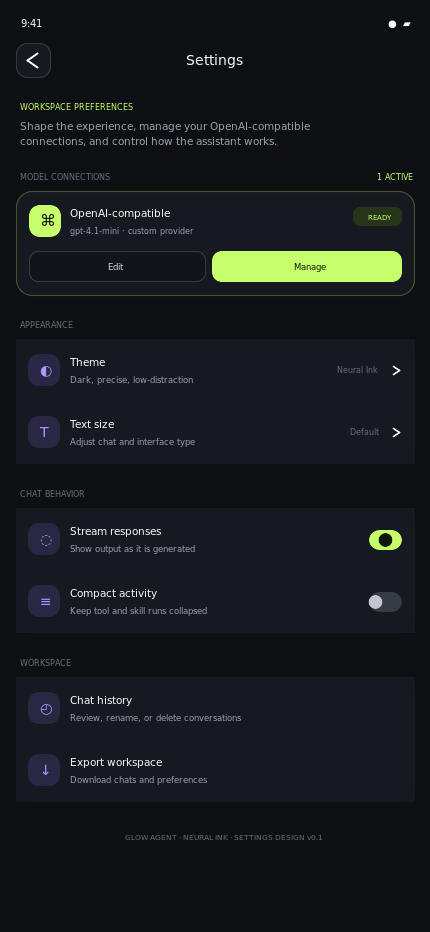
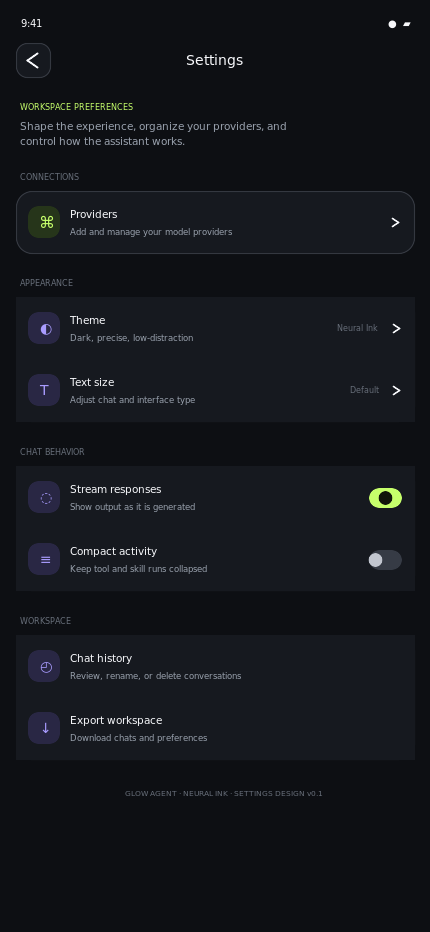
design: separate provider settings section

diff --git a/settings-page.html b/settings-page.html
@@ -37,8 +37,8 @@
     html { min-width: 320px; background: var(--canvas); }
     body { min-width: 320px; min-height: 100dvh; margin: 0; background: radial-gradient(circle at 85% 0%, rgba(169,156,255,.14), transparent 29rem), var(--canvas); color: var(--text); font-family: var(--font); -webkit-font-smoothing: antialiased; text-rendering: optimizeLegibility; }
     button, a { font: inherit; } button { cursor: pointer; } button:focus-visible, a:focus-visible { outline: 3px solid var(--accent); outline-offset: 3px; }
-    .mono, .status, .section-label, .item-meta, .item-value, .badge, .build, .toast { font-family: var(--mono); }
-    .phone { width: min(100%,470px); min-height:100dvh; margin:0 auto; padding-bottom:calc(30px + env(safe-area-inset-bottom)); background:radial-gradient(circle at 100% -2%,rgba(198,255,107,.07),transparent 25rem),var(--bg); box-shadow:0 0 0 1px rgba(255,255,255,.035),var(--shadow); }
+    .mono, .status, .section-label, .item-meta, .item-value, .build, .toast { font-family: var(--mono); }
+    .phone { position:relative; width: min(100%,470px); min-height:100dvh; margin:0 auto; padding-bottom:calc(30px + env(safe-area-inset-bottom)); background:radial-gradient(circle at 100% -2%,rgba(198,255,107,.07),transparent 25rem),var(--bg); box-shadow:0 0 0 1px rgba(255,255,255,.035),var(--shadow); }
 
     .status { display:flex; align-items:center; justify-content:space-between; height:calc(29px + env(safe-area-inset-top)); padding:env(safe-area-inset-top) 21px 0; color:var(--text); font-size:10px; font-weight:500; }
     .status-signals { display:flex; align-items:center; gap:6px; }.signal { display:inline-flex; align-items:end; gap:1px; height:10px; }.signal i { display:block; width:2px; border-radius:2px; background:currentColor; }.signal i:nth-child(1){height:3px}.signal i:nth-child(2){height:5px}.signal i:nth-child(3){height:7px}.signal i:nth-child(4){height:9px}.wifi { width:12px;height:9px;border:1.5px solid currentColor;border-bottom:0;border-radius:12px 12px 0 0;opacity:.94}.battery{width:19px;height:9px;padding:1px;border:1.2px solid currentColor;border-radius:3px}.battery::before{content:"";display:block;width:70%;height:100%;border-radius:1px;background:currentColor}
@@ -49,7 +49,12 @@
     .settings { display:grid; gap:22px; padding:0 16px; }.settings-section { min-width:0; }.section-label { display:flex; align-items:center; justify-content:space-between; margin:0 4px 8px; color:var(--quiet); font-size:8px; font-weight:500; letter-spacing:.08em; text-transform:uppercase; }.section-label .count { color:var(--accent); }
     .group { overflow:hidden; border:1px solid var(--line); border-radius:16px; background:var(--surface); }.setting-row { display:grid; grid-template-columns:31px minmax(0,1fr) auto; align-items:center; gap:10px; width:100%; min-height:62px; padding:10px 12px; border:0; border-bottom:1px solid var(--line); background:transparent; color:var(--text); text-align:left; text-decoration:none; }.setting-row:last-child { border-bottom:0; }.setting-row:hover { background:var(--surface-raised); }.row-icon { display:grid; width:31px; height:31px; place-items:center; border-radius:10px; background:var(--violet-wash); color:var(--violet); }.row-icon.accent { background:var(--accent-wash); color:var(--accent); }.row-icon.blue { background:rgba(129,217,255,.12); color:var(--blue); }.row-icon svg { width:15px; height:15px; fill:none; stroke:currentColor; stroke-linecap:round; stroke-linejoin:round; stroke-width:1.8; }.row-copy { min-width:0; }.row-title, .row-description { display:block; overflow:hidden; text-overflow:ellipsis; white-space:nowrap; }.row-title { color:var(--text); font-size:10.5px; font-weight:750; letter-spacing:-.018em; }.row-description { margin-top:3px; color:var(--muted); font-size:8.5px; line-height:1.35; }.row-tail { display:flex; align-items:center; gap:8px; min-width:0; }.item-value { max-width:90px; overflow:hidden; color:var(--quiet); font-size:8px; text-align:right; text-overflow:ellipsis; white-space:nowrap; }.chevron { color:var(--quiet); }.chevron svg { width:14px; height:14px; fill:none; stroke:currentColor; stroke-linecap:round;stroke-linejoin:round;stroke-width:1.8; }
 
-    .connection-card { padding:13px; border:1px solid rgba(198,255,107,.18); border-radius:16px; background:linear-gradient(135deg,rgba(198,255,107,.09),transparent 62%),var(--surface); }.connection-top { display:flex; align-items:center; justify-content:space-between; gap:12px; }.connection-left { display:flex; align-items:center; min-width:0; gap:9px; }.connection-icon { display:grid; width:31px; height:31px; place-items:center; flex:0 0 auto; border-radius:10px; background:var(--accent); color:var(--accent-ink); }.connection-icon svg { width:16px;height:16px;fill:none;stroke:currentColor;stroke-linecap:round;stroke-linejoin:round;stroke-width:2; }.connection-title { display:block; color:var(--text); font-size:10.5px; font-weight:800; }.connection-meta { display:block; overflow:hidden; max-width:240px; margin-top:3px; color:var(--muted); font-family:var(--mono); font-size:8px; text-overflow:ellipsis; white-space:nowrap; }.badge { flex:0 0 auto; padding:5px 6px; border-radius:6px; background:var(--accent-wash); color:var(--accent); font-size:7px; font-weight:500; letter-spacing:.045em; }.connection-actions { display:flex; gap:7px; margin-top:12px; }.connection-action { flex:1; height:30px; border:1px solid var(--line); border-radius:9px; background:var(--surface-soft); color:var(--text-soft); font-size:8.5px; font-weight:750; }.connection-action.primary { border-color:transparent; background:var(--accent); color:var(--accent-ink); }
+
+    /* Providers is a focused sub-section rather than exposing connection detail on Settings. */
+    .providers-view { position:fixed; top:0; bottom:0; left:50%; z-index:10; display:flex; width:min(100%,470px); flex-direction:column; padding-bottom:calc(24px + env(safe-area-inset-bottom)); transform:translate(110%,0); overflow:auto; background:radial-gradient(circle at 100% -2%,rgba(198,255,107,.07),transparent 25rem),var(--bg); opacity:0; visibility:hidden; transition:transform .28s cubic-bezier(.2,.8,.2,1),opacity .2s ease,visibility .2s ease; }
+    .phone.providers-open .providers-view { transform:translate(-50%,0); opacity:1; visibility:visible; }
+    .providers-topbar { display:grid; grid-template-columns:34px minmax(0,1fr) 34px; align-items:center; gap:9px; padding:calc(42px + env(safe-area-inset-top)) 16px 14px; }.providers-topbar h2 { margin:0; font-size:14px; font-weight:800; letter-spacing:-.035em; text-align:center; }.providers-back, .providers-spacer { display:grid; width:34px; height:34px; place-items:center; border:1px solid var(--line); border-radius:11px; background:var(--surface); color:var(--text); }.providers-back svg { width:16px; height:16px; fill:none; stroke:currentColor; stroke-linecap:round; stroke-linejoin:round; stroke-width:1.9; }.providers-spacer { visibility:hidden; }
+    .providers-content { padding:4px 16px; }.providers-content > p { margin:0 4px 18px; color:var(--muted); font-size:11px; line-height:1.5; }.providers-empty { display:grid; min-height:340px; place-content:center; padding:26px; border:1px dashed rgba(255,255,255,.16); border-radius:20px; background:var(--surface-soft); text-align:center; }.providers-empty-icon { display:grid; width:43px; height:43px; place-items:center; margin:0 auto; border-radius:14px; background:var(--accent-wash); color:var(--accent); }.providers-empty-icon svg { width:21px; height:21px; fill:none; stroke:currentColor; stroke-linecap:round; stroke-linejoin:round; stroke-width:1.8; }.providers-empty h3 { margin:14px 0 6px; font-size:15px; letter-spacing:-.04em; }.providers-empty p { max-width:240px; margin:0; color:var(--muted); font-size:10px; line-height:1.55; }.add-provider { display:flex; align-items:center; justify-content:center; gap:7px; width:100%; height:39px; margin-top:15px; border:0; border-radius:11px; background:var(--accent); color:var(--accent-ink); font-size:10px; font-weight:850; }.add-provider svg { width:14px; height:14px; fill:none; stroke:currentColor; stroke-linecap:round; stroke-width:2.1; }
 
     .toggle { position:relative; width:32px; height:19px; padding:0; border:0; border-radius:99px; background:#363b45; transition:background .18s ease; }.toggle i { position:absolute; top:3px; left:3px; width:13px; height:13px; border-radius:50%; background:#c2c6cf; box-shadow:0 1px 3px rgba(0,0,0,.32); transition:transform .18s ease,background .18s ease; }.toggle[aria-pressed="true"] { background:var(--accent); }.toggle[aria-pressed="true"] i { transform:translateX(13px); background:var(--accent-ink); }
     .danger .row-icon { background:rgba(255,135,151,.12); color:var(--danger); }.danger .row-title { color:#ffd9df; }.danger .item-value { color:var(--danger); }
@@ -58,19 +63,18 @@
   </style>
 </head>
 <body>
-  <main class="phone" aria-label="Glow Agent settings page design">
+  <main class="phone" id="phone" aria-label="Glow Agent settings page design">
     <div class="status" aria-hidden="true"><span>9:41</span><span class="status-signals"><span class="signal"><i></i><i></i><i></i><i></i></span><span class="wifi"></span><span class="battery"></span></span></div>
     <header class="topbar"><a class="back" href="chat-page.html" aria-label="Back to chat"><svg viewBox="0 0 24 24" aria-hidden="true"><path d="m15 18-6-6 6-6"/></svg></a><h1>Settings</h1><span class="top-spacer" aria-hidden="true"></span></header>
 
-    <section class="intro"><p class="eyebrow">Workspace preferences</p><p>Shape the experience, manage your <strong>OpenAI-compatible connections</strong>, and control how the assistant works.</p></section>
+    <section class="intro"><p class="eyebrow">Workspace preferences</p><p>Shape the experience, organize your <strong>providers</strong>, and control how the assistant works.</p></section>
 
     <div class="settings">
-      <section class="settings-section" aria-labelledby="connections-title">
-        <div class="section-label"><span id="connections-title">Model connections</span><span class="count">1 active</span></div>
-        <article class="connection-card">
-          <div class="connection-top"><div class="connection-left"><span class="connection-icon" aria-hidden="true"><svg viewBox="0 0 24 24"><path d="M8 7H5a2 2 0 0 0-2 2v3m18 0V9a2 2 0 0 0-2-2h-3M8 17H5a2 2 0 0 1-2-2v-3m18 0v3a2 2 0 0 1-2 2h-3"/><path d="M8 12h8M12 8v8"/></svg></span><span><span class="connection-title">OpenAI-compatible</span><span class="connection-meta">gpt-4.1-mini · custom provider</span></span></div><span class="badge">READY</span></div>
-          <div class="connection-actions"><button class="connection-action" type="button" data-action="Edit connection">Edit</button><button class="connection-action primary" type="button" data-action="Manage connections">Manage</button></div>
-        </article>
+      <section class="settings-section" aria-labelledby="providers-title">
+        <div class="section-label"><span id="providers-title">Connections</span></div>
+        <div class="group">
+          <button class="setting-row" id="providersButton" type="button" aria-controls="providersView" aria-expanded="false"><span class="row-icon accent" aria-hidden="true"><svg viewBox="0 0 24 24"><path d="M8 7H5a2 2 0 0 0-2 2v3m18 0V9a2 2 0 0 0-2-2h-3M8 17H5a2 2 0 0 1-2-2v-3m18 0v3a2 2 0 0 1-2 2h-3"/><path d="M8 12h8M12 8v8"/></svg></span><span class="row-copy"><span class="row-title">Providers</span><span class="row-description">Add and manage your model providers</span></span><span class="row-tail"><span class="chevron" aria-hidden="true"><svg viewBox="0 0 24 24"><path d="m9 18 6-6-6-6"/></svg></span></span></button>
+        </div>
       </section>
 
       <section class="settings-section" aria-labelledby="appearance-title">
@@ -102,13 +106,35 @@
         <div class="group"><button class="setting-row" type="button" data-action="Reset workspace"><span class="row-icon" aria-hidden="true"><svg viewBox="0 0 24 24"><path d="M3 6h18M8 6V4h8v2m-9 0 1 15h8l1-15M10 10v7m4-7v7"/></svg></span><span class="row-copy"><span class="row-title">Reset workspace</span><span class="row-description">Remove local chats and preferences</span></span><span class="row-tail"><span class="item-value">Reset</span><span class="chevron" aria-hidden="true"><svg viewBox="0 0 24 24"><path d="m9 18 6-6-6-6"/></svg></span></span></button></div>
       </section>
     </div>
+
+    <section class="providers-view" id="providersView" aria-label="Providers" aria-hidden="true">
+      <header class="providers-topbar"><button class="providers-back" id="providersBack" type="button" aria-label="Back to settings"><svg viewBox="0 0 24 24" aria-hidden="true"><path d="m15 18-6-6 6-6"/></svg></button><h2>Providers</h2><span class="providers-spacer" aria-hidden="true"></span></header>
+      <div class="providers-content">
+        <p>Set up the model providers your workspace can use. Provider details stay organized here instead of cluttering Settings.</p>
+        <section class="providers-empty" aria-label="No providers configured">
+          <span class="providers-empty-icon" aria-hidden="true"><svg viewBox="0 0 24 24"><path d="M8 7H5a2 2 0 0 0-2 2v3m18 0V9a2 2 0 0 0-2-2h-3M8 17H5a2 2 0 0 1-2-2v-3m18 0v3a2 2 0 0 1-2 2h-3"/><path d="M8 12h8M12 8v8"/></svg></span>
+          <h3>No providers yet</h3>
+          <p>Add your first provider when you are ready to connect a model.</p>
+          <button class="add-provider" type="button" data-action="Add provider"><svg viewBox="0 0 24 24" aria-hidden="true"><path d="M12 5v14M5 12h14"/></svg>Add provider</button>
+        </section>
+      </div>
+    </section>
+
     <p class="build">GLOW AGENT · NEURAL INK · SETTINGS DESIGN v0.1</p>
     <div class="toast" id="toast" role="status" aria-live="polite"></div>
   </main>
   <script>
+    const phone = document.getElementById('phone');
     const toast = document.getElementById('toast');
+    const providersButton = document.getElementById('providersButton');
+    const providersView = document.getElementById('providersView');
+    const providersBack = document.getElementById('providersBack');
     let toastTimer;
     function showToast(message) { toast.textContent = message; toast.classList.add('show'); clearTimeout(toastTimer); toastTimer = setTimeout(() => toast.classList.remove('show'), 2200); }
+    function setProviders(open) { phone.classList.toggle('providers-open', open); providersView.setAttribute('aria-hidden', String(!open)); providersButton.setAttribute('aria-expanded', String(open)); if (open) providersBack.focus(); else providersButton.focus(); }
+    providersButton.addEventListener('click', () => setProviders(true));
+    providersBack.addEventListener('click', () => setProviders(false));
+    document.addEventListener('keydown', (event) => { if (event.key === 'Escape' && phone.classList.contains('providers-open')) setProviders(false); });
     document.querySelectorAll('.toggle').forEach((toggle) => toggle.addEventListener('click', () => { const enabled = toggle.getAttribute('aria-pressed') === 'true'; toggle.setAttribute('aria-pressed', String(!enabled)); }));
     document.querySelectorAll('[data-action]').forEach((control) => control.addEventListener('click', () => showToast(`${control.dataset.action} opens in the implementation phase`)));
   </script>

diff --git a/README.md b/README.md
@@ -5,7 +5,7 @@ Planning for a mobile-friendly web application with a JavaScript backend running
 - [Termux web application plan](docs/TERMUX_WEB_APP_PLAN.md)
 - [Mobile UI design exploration](design-exploration.html) — a self-contained, interactive HTML review with three palettes and three mobile-screen directions.
 - [Neural Ink chat-page design](chat-page.html) — the selected dark/precise mobile chat direction, without bottom navigation. Its left icon opens an accessible chat-history drawer; the top-centre session title truncates long names with an ellipsis.
-- [Neural Ink settings-page design](settings-page.html) — the first dedicated settings screen. The sidebar Settings route now opens this page.
-- `design-previews/` — PNG previews for Neural Ink / Focus Chat, Iris Signal / Agent Run, Paper Circuit / Skills & Tools, the selected [Neural Ink chat page](design-previews/neural-ink-chat-page.png), its [chat-history drawer](design-previews/neural-ink-chat-history.png), and [settings page](design-previews/neural-ink-settings-page.png).
+- [Neural Ink settings-page design](settings-page.html) — the first dedicated settings screen. Its Providers button opens a focused in-page Providers section.
+- `design-previews/` — PNG previews for Neural Ink / Focus Chat, Iris Signal / Agent Run, Paper Circuit / Skills & Tools, the selected [Neural Ink chat page](design-previews/neural-ink-chat-page.png), its [chat-history drawer](design-previews/neural-ink-chat-history.png), [settings page](design-previews/neural-ink-settings-page.png), and [Providers section](design-previews/neural-ink-providers-section.png).
 
 The product brief is the next required step before implementation. The plan lists the exact decisions needed and the proposed frontend, backend, security, database, and Termux approach.
